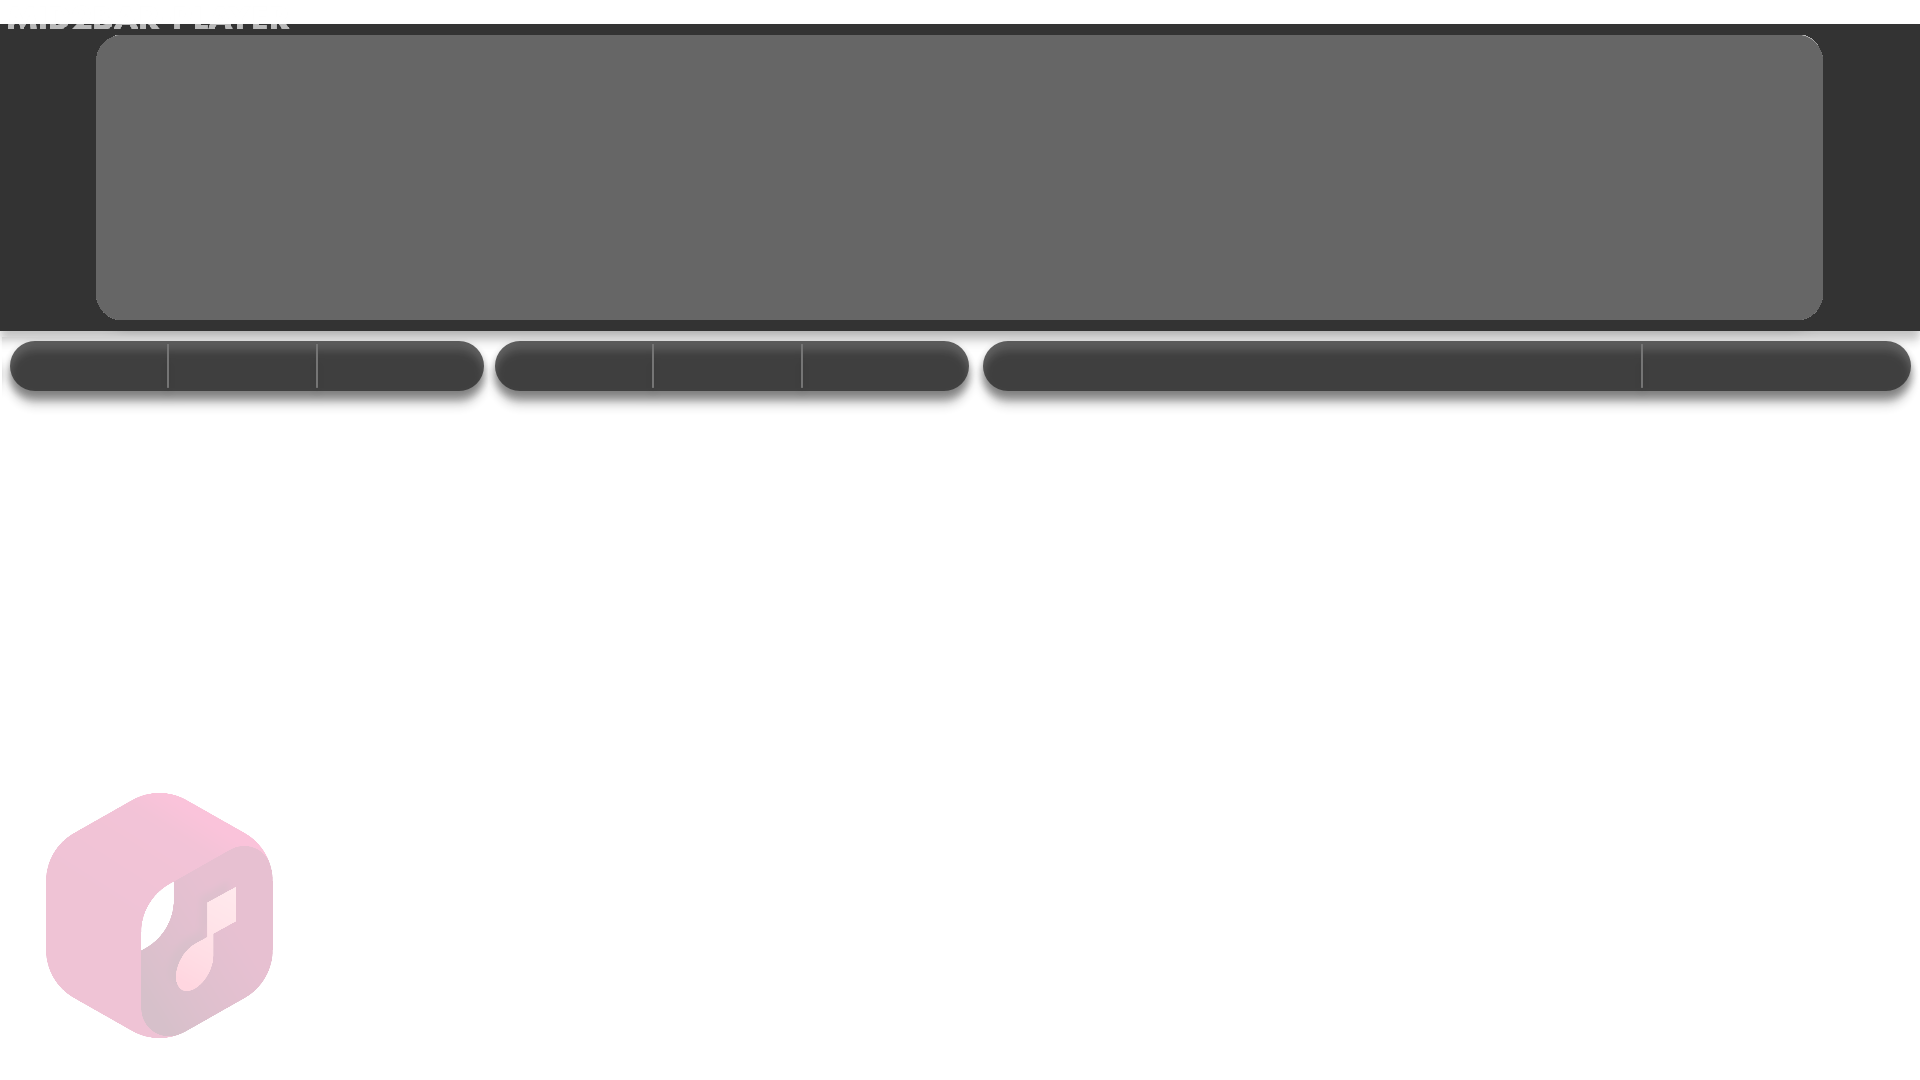
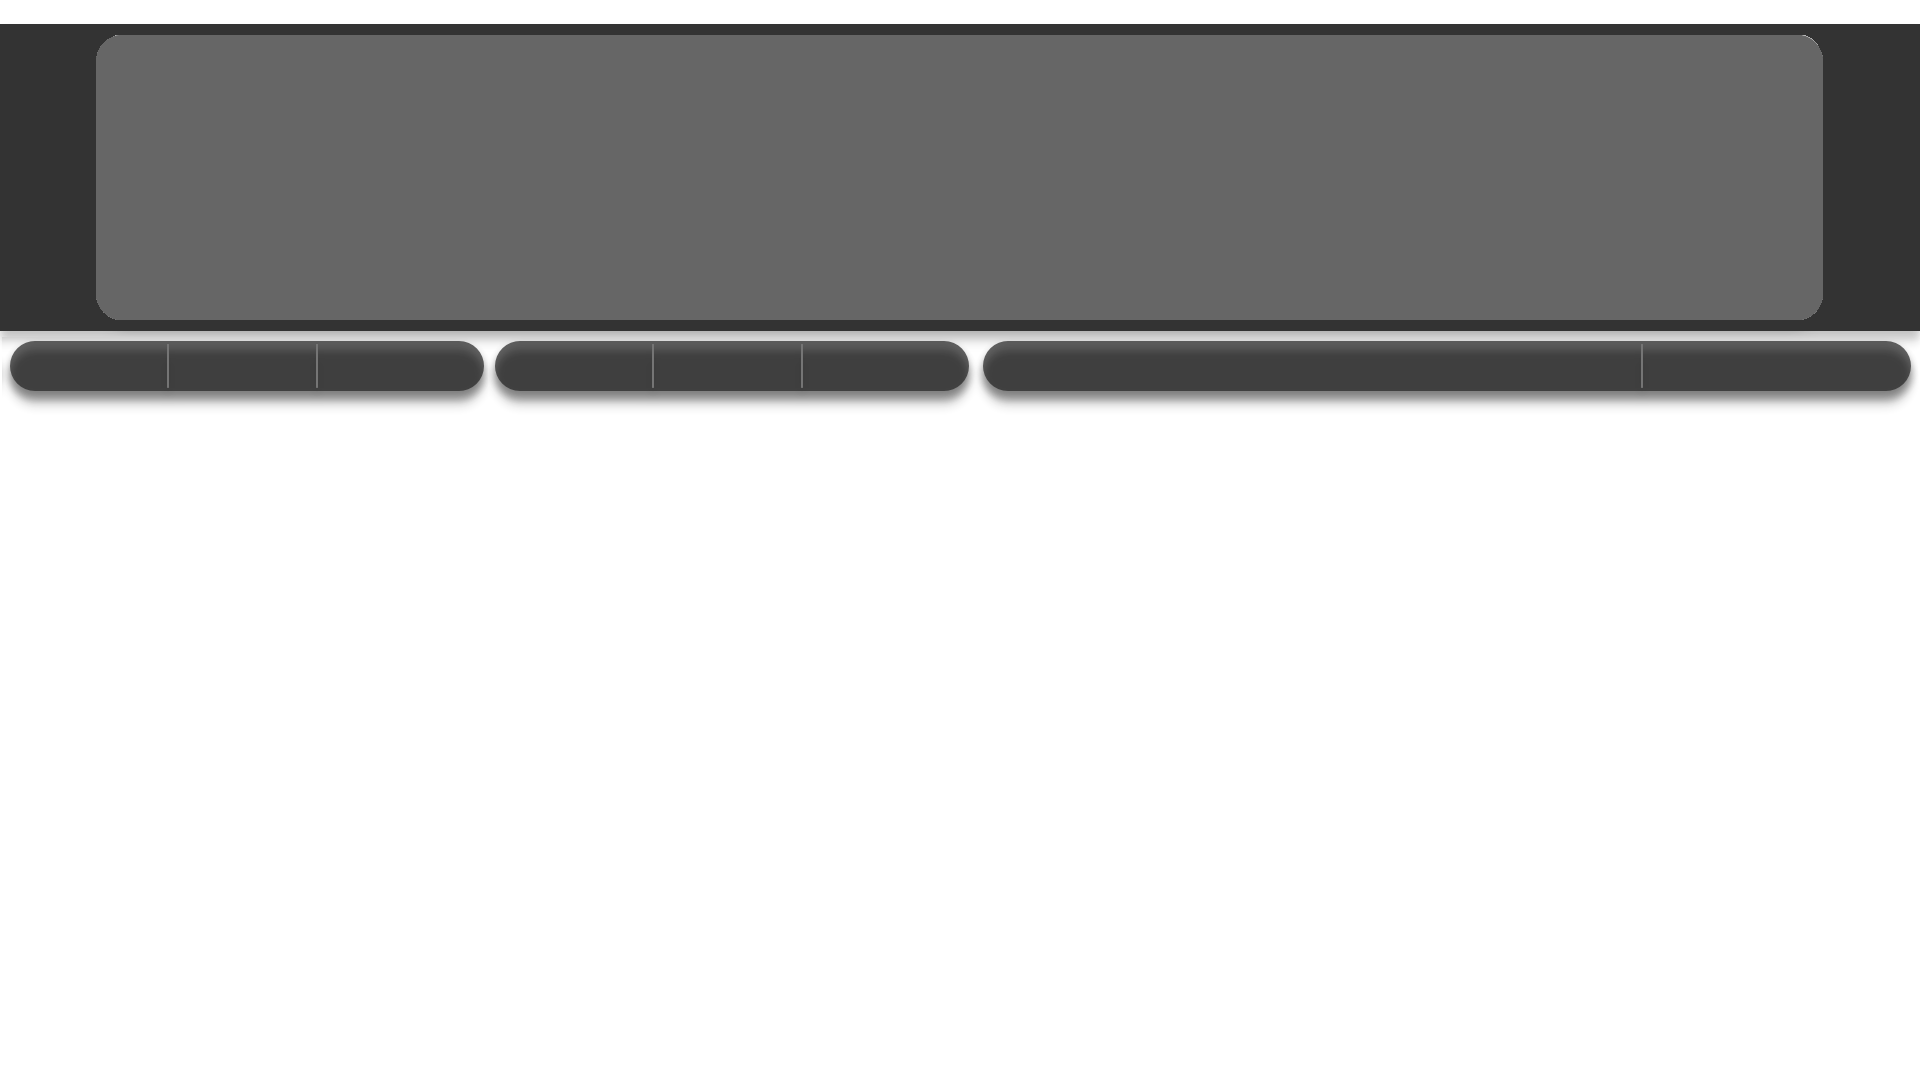
READMEの追加、背景画像の修正

Changed region(s): [[0.0, 0.7333, 0.1562, 0.9778], [0.0312, 0.0, 0.0625, 0.0306]]

diff --git a/README_ja.md b/README_ja.md
@@ -31,6 +31,10 @@
 - **MID2BAR-Player**: MIDIのメロディ情報とLRC（ルビ対応）歌詞、任意の背景動画／音声を組み合わせてカラオケ表示・可視化するスタンドアロンプレイヤーです。
 - **主な機能**: 譜割り（区切り）を作成したメロディーMIDIファイルと歌詞と同期表示、表示エフェクト（ノートバー、グロー、パーティクル）、マイク入力によるリアルタイム採点（実際のカラオケ機器のものとは異なり、音程の一致度のみを算出しています。参考程度とお考え下さい。）、映像の重ね合わせ、録画（エクスポート）機能。
 
+<div align="center">
+  <img src="./images/ui/screenshot.jpg" alt="Screenshot" width="500" />
+</div>
+
 
 ### 動作環境
 

diff --git a/README.md b/README.md
@@ -33,6 +33,10 @@ A standalone karaoke player that generates karaoke subtitle videos with pitch gu
 * **MID2BAR-Player**: A standalone player that visualizes karaoke by combining melody MIDI data, LRC lyrics (with ruby/furigana support), and optional background video/audio.
 * **Main features**: Synced display of melody MIDI files (with measure/page markers) and lyrics, visual effects (note bars, glow, particles), real-time microphone input scoring (this is FFT-based pitch matching only — not equivalent to commercial karaoke scoring; use for reference), video overlay, and recording (export) functionality.
 
+<div align="center">
+  <img src="./images/ui/screenshot.jpg" alt="Screenshot" width="500" />
+</div>
+
 ---
 
 ## Supported Platforms
